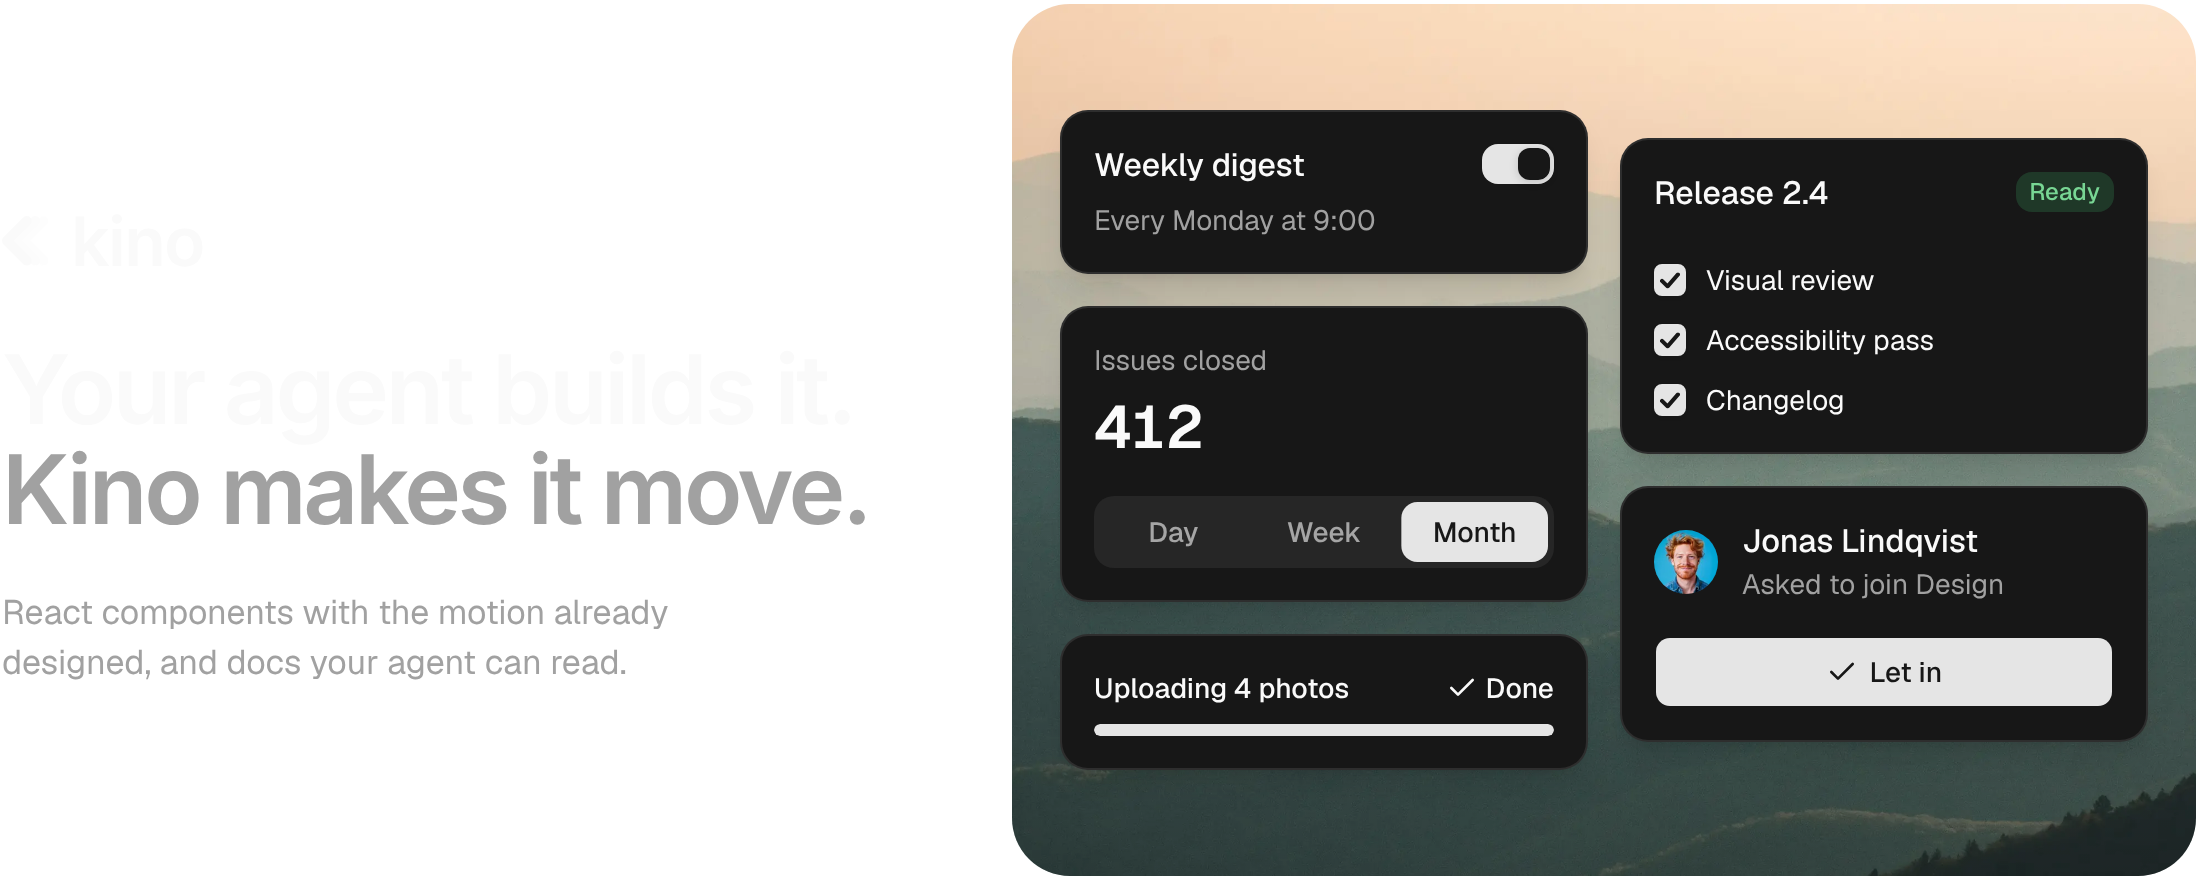
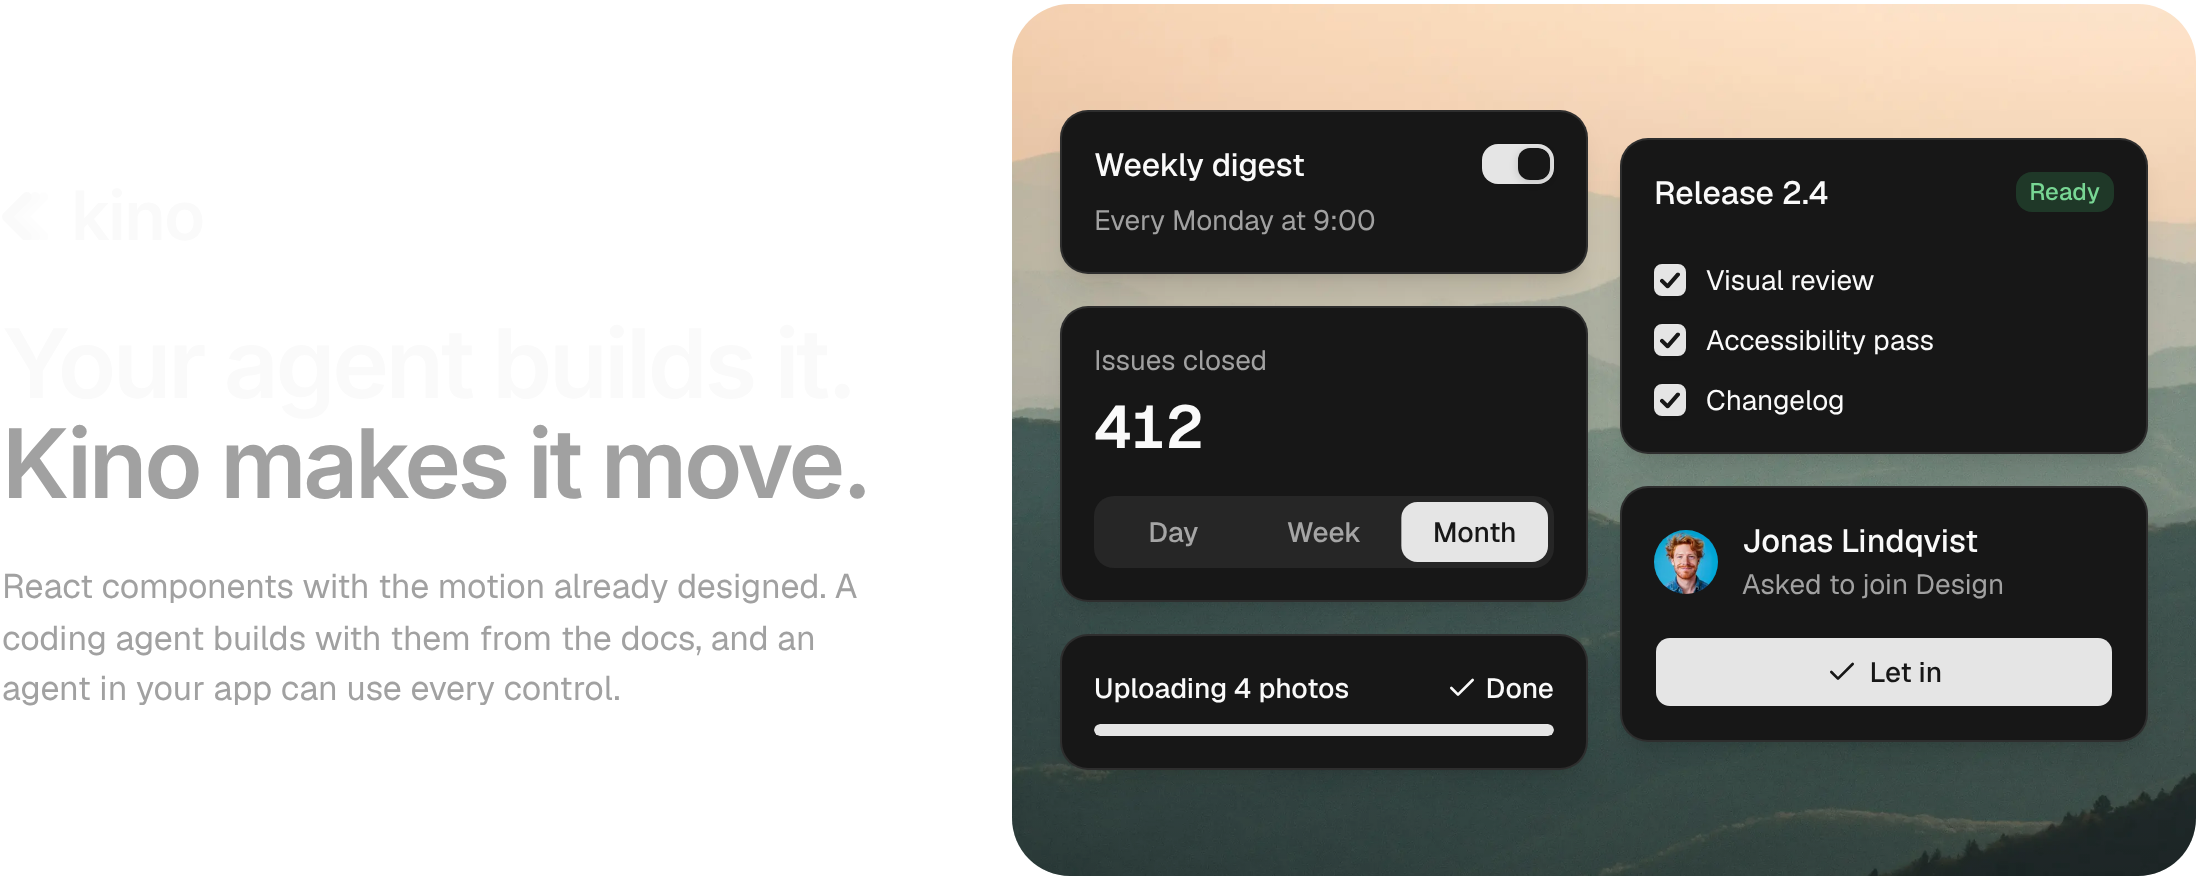
Sync from source 4720284

Changed region(s): [[0.0, 0.6443, 0.4018, 0.7977], [0.0, 0.4909, 0.4018, 0.6136]]

diff --git a/README.md b/README.md
@@ -1,6 +1,6 @@
 <picture>
   <source media="(prefers-color-scheme: dark)" srcset=".github/banner-dark.png">
-  <img alt="Kino. Your agent builds it. Kino makes it move. React components with the motion already designed, and docs your agent can read." src=".github/banner-light.png">
+  <img alt="Kino. Your agent builds it. Kino makes it move. React components with the motion already designed. A coding agent builds with them from the docs, and an agent in your app can use every control." src=".github/banner-light.png">
 </picture>
 
 [Website](https://kinoui.com) · [Docs](https://kinoui.com/docs) · [Installation](https://kinoui.com/docs/installation)
